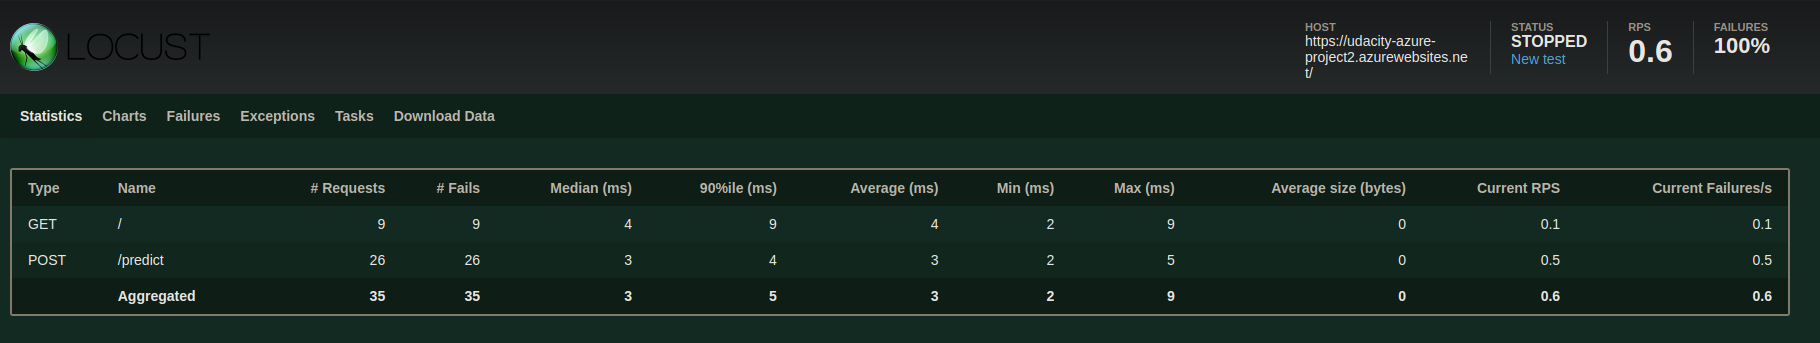
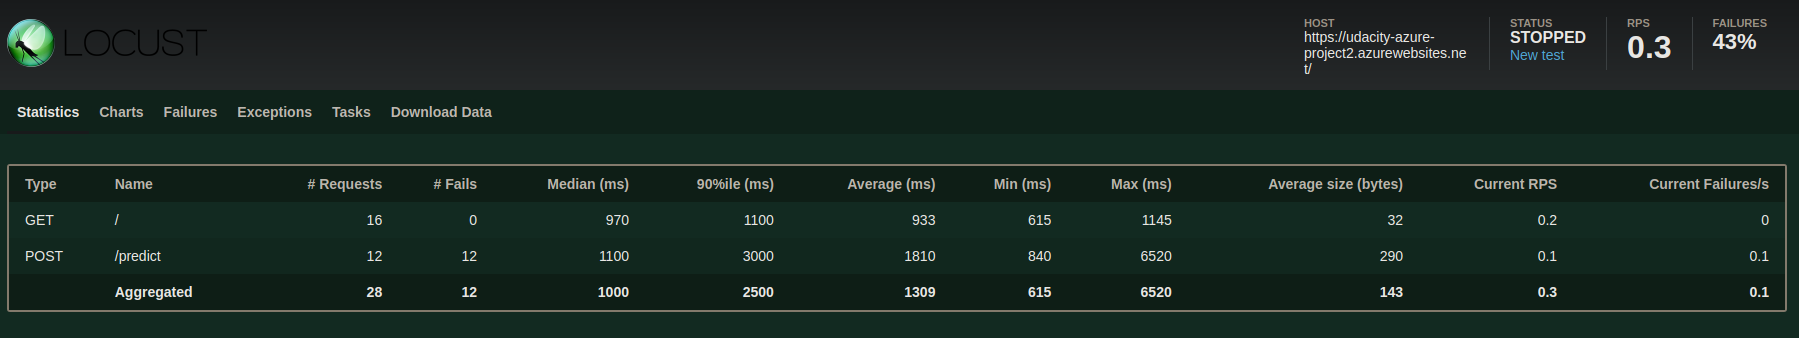
update locust

diff --git a/locustfile.py b/locustfile.py
@@ -4,9 +4,9 @@ class WebsiteTestUser(HttpUser):
     wait_time = between(0.5, 3.0)
 
     @task(1)
-    def test1(self):
-        self.client.get("http://localhost:5000")
+    def test_root(self):
+        self.client.get("")
 
     @task(2)
-    def test2(self):
-        self.client.post("http://localhost:5000/predict")
+    def test_predict(self):
+        self.client.post("predict")
